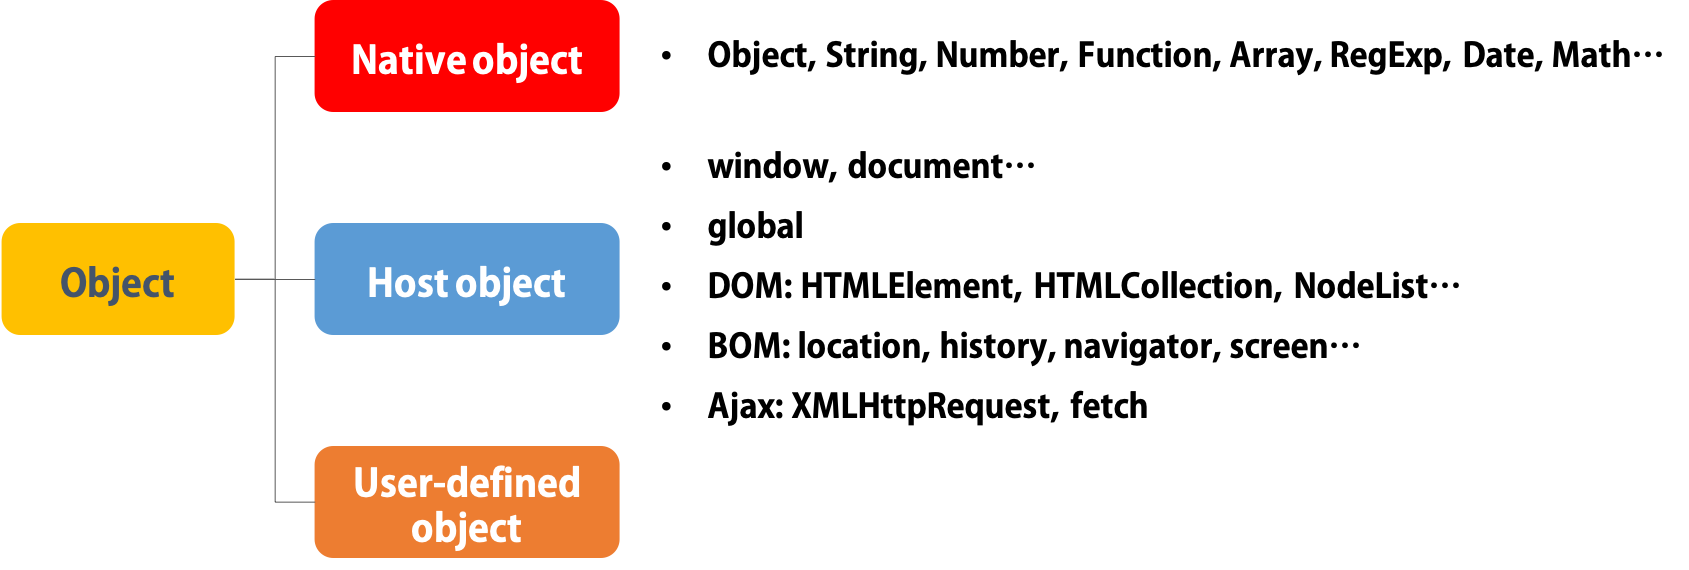
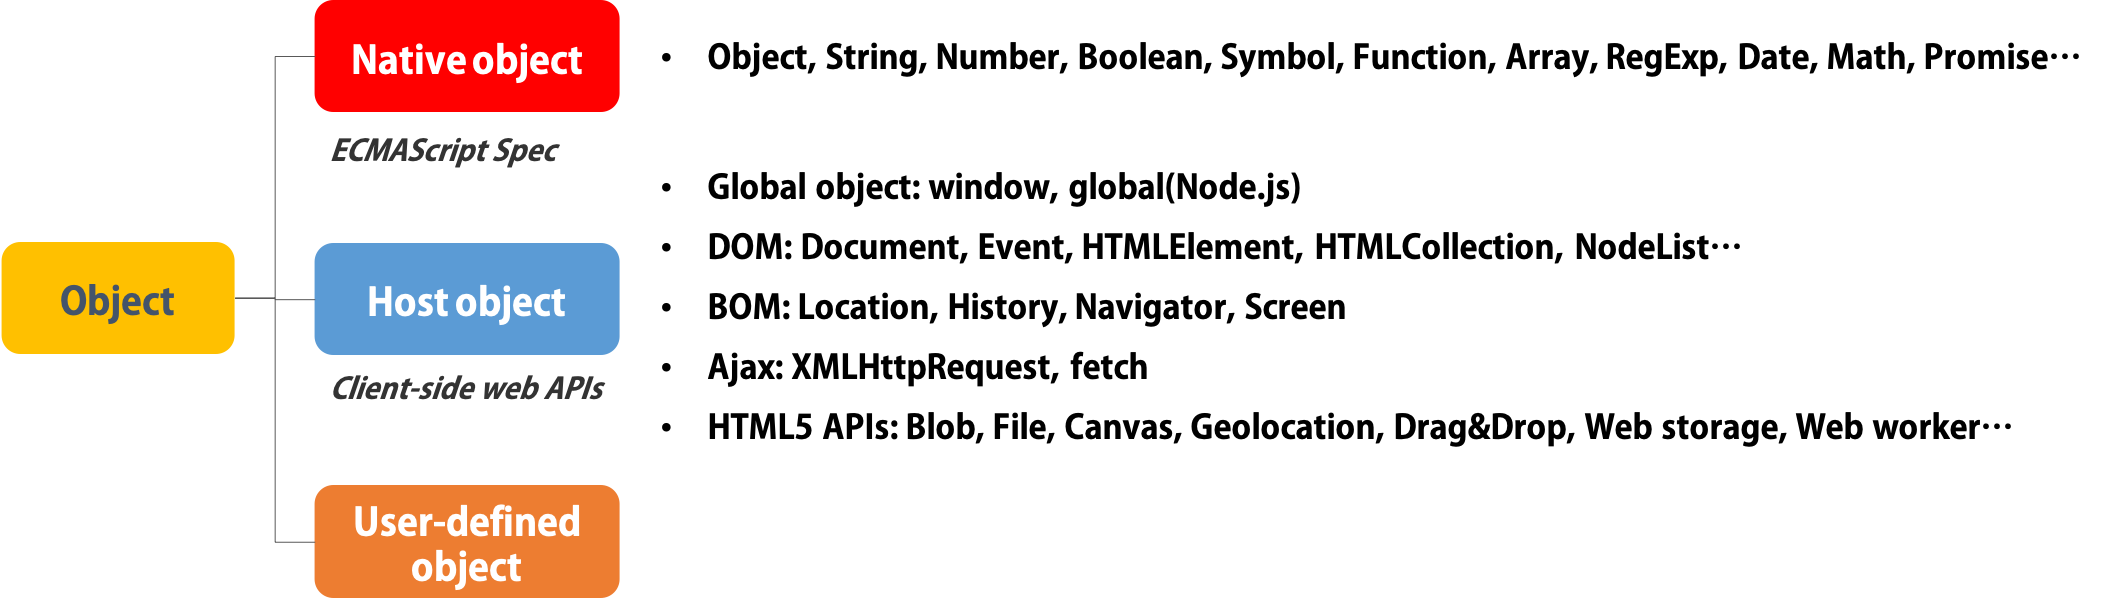
update

diff --git a/_posts/2016-05-02-js-introduction.md b/_posts/2016-05-02-js-introduction.md
@@ -77,7 +77,22 @@ ECMAScript 6 : [ECMA-262 6th edition](http://www.ecma-international.org/ecma-262
 ![history javascript evolution es6](/img/history-javascript-evolution-es6.png)
 {: .w-650}
 
-# 3. Browsers Support
+# 3. 자바스크립트의 구성 요소
+
+일반적으로 자바스크립트는 ESCMAScript뿐만 아니라 클라이언트 사이드 API를 아우르는 개념이다. ESCMAScript 명세에서는 자바스크립트의 핵심 기술을 관리하고 클라이언트 사이드 API는 별도의 명세로 관리된다.
+
+ESCMAScript
+: Object, String, Number, Boolean, Symbol, Function, Array, RegExp, Date, Math, Promise…
+
+클라이언트 사이드 API
+: - Global object: window, global(Node.js)
+  - DOM: Document, Event, HTMLElement, HTMLCollection, NodeList…
+  - BOM: Location, History, Navigator, Screen
+  - Ajax: XMLHttpRequest, fetch
+  - HTML5 APIs: Blob, File, Canvas, Geolocation, Drag&Drop, Web storage, Web worker…
+
+
+# 4. Browsers Support
 
 IE를 제외한 대부분의 모던 브라우저는 ES6를 지원하고 있지만 100% 지원하고 있지는 않다. 그리고 Node.js의 경우 v4부터 지원을 시작하였다.
 
